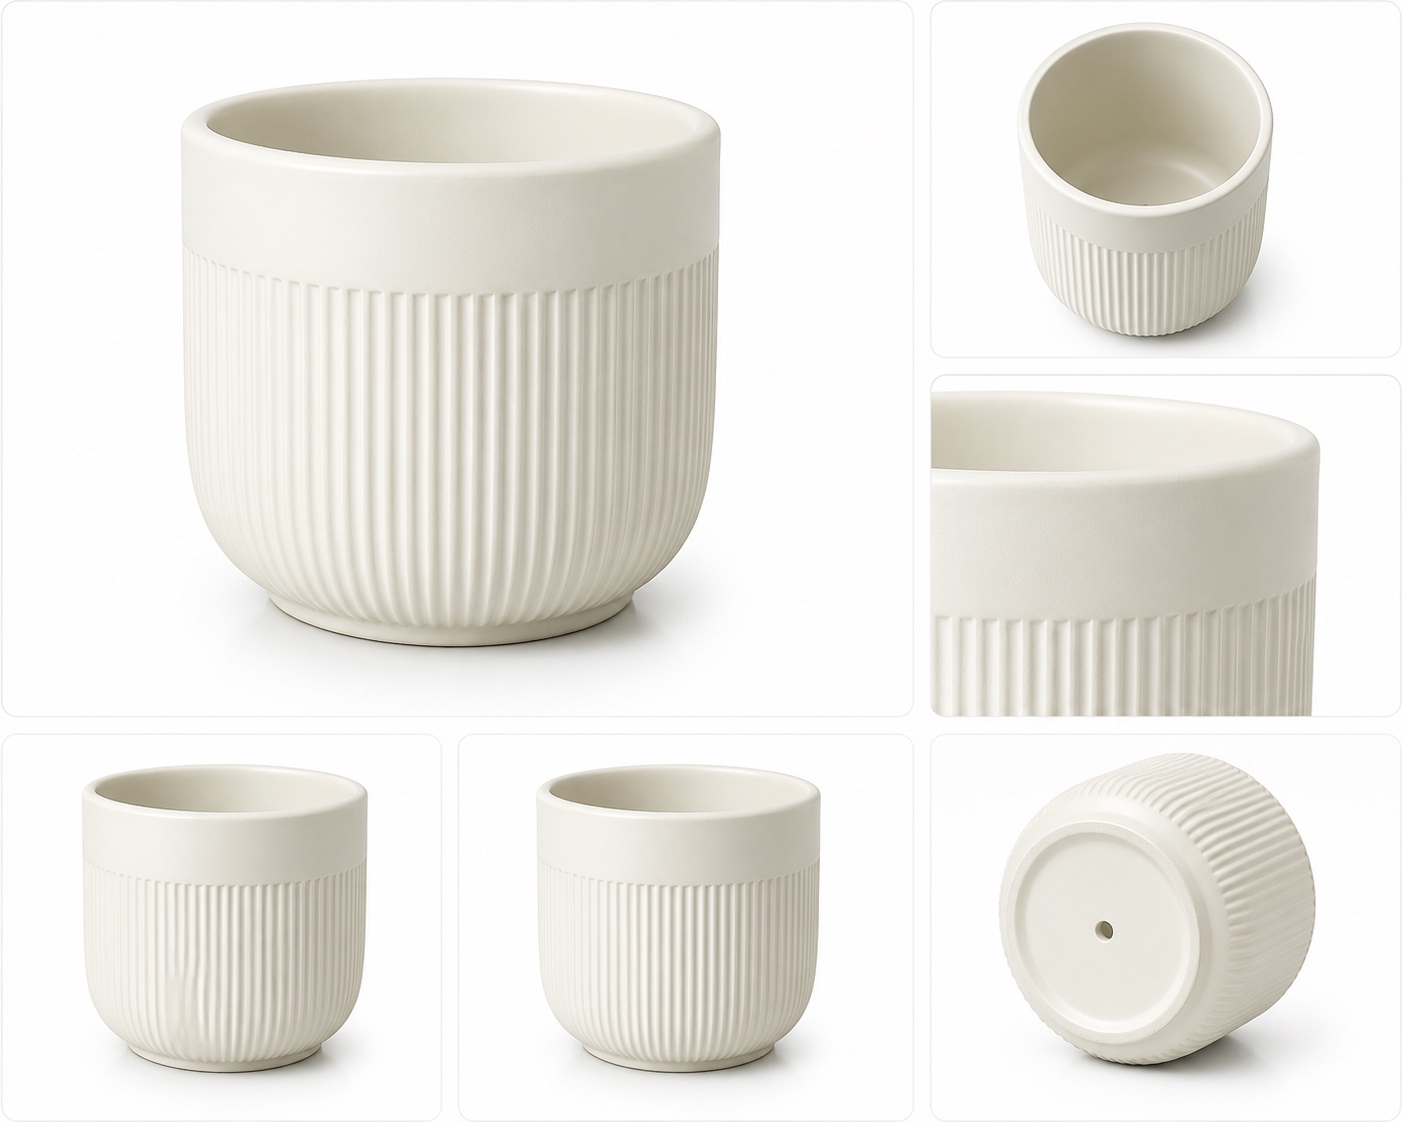
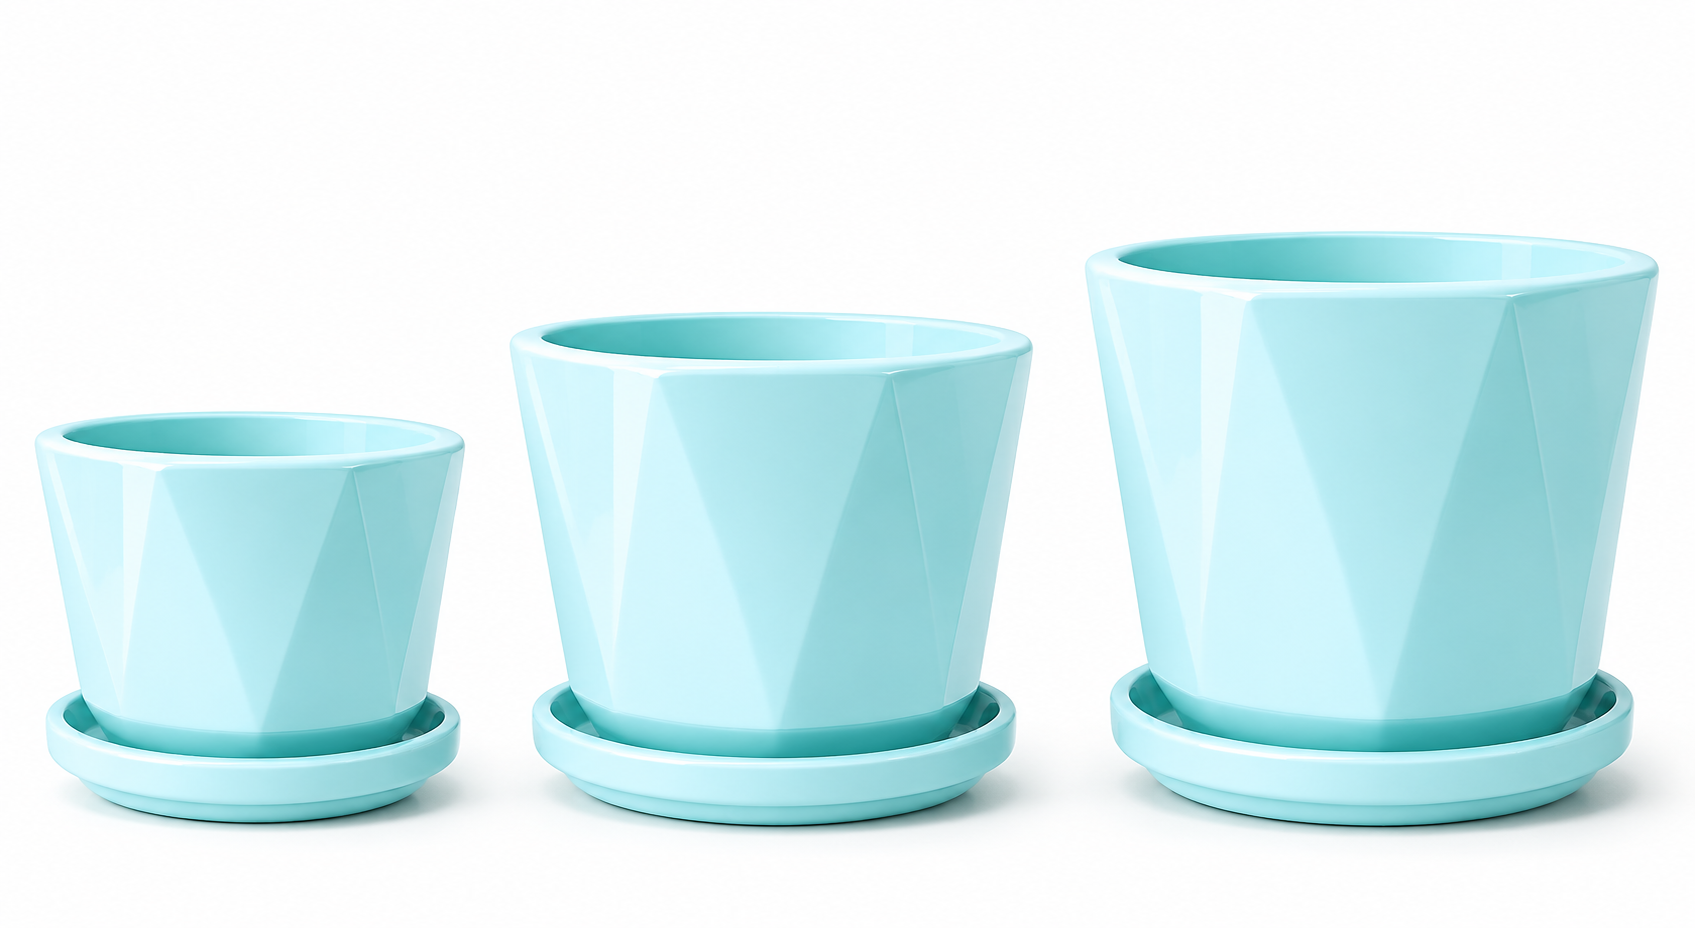
Added price for ceramic posts

diff --git a/app/pots/page.tsx b/app/pots/page.tsx
@@ -10,9 +10,31 @@ export default function PotsPage() {
   const [category, setCategory] = useState<string | null>(null);
   const [selected, setSelected] = useState<Pot | null>(null);
   const [search, setSearch] = useState("");
+  const [size, setSize] = useState<string | null>(null);
+
+  const availablePots = category
+    ? pots.filter((pot) => pot.category === category)
+    : pots;
+
+  const sizes = Array.from(
+    new Set(availablePots.flatMap((pot) => pot.variants.map((variant) => variant.size)))
+  );
+
+  const handleCategorySelect = (value: string | null) => {
+    setCategory(value);
+    const newAvailablePots = value
+      ? pots.filter((pot) => pot.category === value)
+      : pots;
+
+    if (size && !newAvailablePots.some((pot) => pot.variants.some((variant) => variant.size === size))) {
+      setSize(null);
+    }
+  };
 
   const filtered = pots.filter((p) => {
     if (category && p.category !== category) return false;
+    if (size && !p.variants.some((variant) => variant.size === size))
+      return false;
     if (search && !p.name.toLowerCase().includes(search.toLowerCase()))
       return false;
     return true;
@@ -30,13 +52,32 @@ export default function PotsPage() {
         </p>
       </div>
 
-      <div className="mt-8 flex flex-col gap-4 sm:flex-row sm:items-center sm:justify-between">
-        <CategoryFilter
-          categories={POT_CATEGORIES}
-          selected={category}
-          onSelect={setCategory}
-        />
-        <div className="relative">
+      <div className="mt-8 flex flex-col gap-4 sm:items-center sm:justify-between">
+        <div className="flex flex-col gap-4 sm:flex-row sm:items-center sm:gap-3">
+          <CategoryFilter
+            categories={POT_CATEGORIES}
+            selected={category}
+            onSelect={handleCategorySelect}
+          />
+          <label htmlFor="size-filter" className="sr-only">
+            Filter by size
+          </label>
+          <select
+            id="size-filter"
+            value={size ?? ""}
+            onChange={(e) => setSize(e.target.value || null)}
+            className="min-w-[180px] rounded-full border border-gray-200 bg-white py-2 px-4 text-sm text-brand-green focus:border-brand-green focus:outline-none focus:ring-1 focus:ring-brand-green"
+          >
+            <option value="">All sizes</option>
+            {sizes.map((sizeOption) => (
+              <option key={sizeOption} value={sizeOption}>
+                {sizeOption}
+              </option>
+            ))}
+          </select>
+        </div>
+
+        <div className="relative max-w-md">
           <svg
             className="absolute left-3 top-1/2 h-4 w-4 -translate-y-1/2 text-gray-400"
             fill="none"
@@ -55,7 +96,7 @@ export default function PotsPage() {
             placeholder="Search pots..."
             value={search}
             onChange={(e) => setSearch(e.target.value)}
-            className="w-full rounded-full border border-gray-200 bg-white py-2 pl-10 pr-4 text-sm text-gray-700 placeholder-gray-400 focus:border-brand-green focus:outline-none focus:ring-1 focus:ring-brand-green sm:w-64"
+            className="w-full rounded-full border border-gray-200 bg-white py-2 pl-10 pr-4 text-sm text-gray-700 placeholder-gray-400 focus:border-brand-green focus:outline-none focus:ring-1 focus:ring-brand-green"
           />
         </div>
       </div>

diff --git a/data/products.ts b/data/products.ts
@@ -332,23 +332,23 @@ export const pots: Pot[] = [
     { size: '10"', price: null },
   ] },
   // ── Ceramic Pots (PDF has codes and sizes only, no names or prices) ──
-  { id: "ll-cer001", code: "LL-CER001", name: "Ceramic Pot", category: "ceramic", image: "/images/pots/pot-021.jpg", variants: [{ size: '4"', price: null }] },
-  { id: "ll-cer002", code: "LL-CER002", name: "Ceramic Pot", category: "ceramic", image: "/images/pots/pot-022.jpg", variants: [{ size: '4"', price: null }, { size: '7"', price: null }] },
-  { id: "ll-cer003", code: "LL-CER003", name: "Ceramic Pot", category: "ceramic", image: "/images/pots/pot-023.jpg", variants: [{ size: '3"', price: null }] },
-  { id: "ll-cer004", code: "LL-CER004", name: "Ceramic Pot", category: "ceramic", image: "/images/pots/pot-024.jpg", variants: [{ size: '5"', price: null }] },
-  { id: "ll-cer005", code: "LL-CER005", name: "Ceramic Pot", category: "ceramic", image: "/images/pots/pot-025.jpg", variants: [{ size: '5"', price: null }] },
-  { id: "ll-cer006", code: "LL-CER006", name: "Ceramic Pot", category: "ceramic", image: "/images/pots/pot-026.jpg", variants: [{ size: '8"', price: null }] },
-  { id: "ll-cer007", code: "LL-CER007", name: "Ceramic Pot", category: "ceramic", image: "/images/pots/pot-027.jpg", variants: [{ size: '6"', price: null }, { size: '7"', price: null }, { size: '8"', price: null }] },
-  { id: "ll-cer008", code: "LL-CER008", name: "Ceramic Pot", category: "ceramic", image: "/images/pots/pot-028.jpg", variants: [{ size: '7"', price: null }, { size: '8"', price: null }] },
-  { id: "ll-cer009", code: "LL-CER009", name: "Ceramic Pot", category: "ceramic", image: "/images/pots/pot-029.jpg", variants: [{ size: '7"', price: null }] },
+  { id: "ll-cer001", code: "LL-CER001", name: "Ceramic Pot", category: "ceramic", image: "/images/pots/pot-021.jpg", variants: [{ size: '4"', price: 349 }] },
+  { id: "ll-cer002", code: "LL-CER002", name: "Ceramic Pot", category: "ceramic", image: "/images/pots/pot-022.jpg", variants: [{ size: '4"', price: 299 }, { size: '7"', price: 650 }] },
+  { id: "ll-cer003", code: "LL-CER003", name: "Ceramic Pot", category: "ceramic", image: "/images/pots/pot-023.jpg", variants: [{ size: '4"', price: 299 }, { size: '5"', price: 499 }, { size: '6"', price: 699 }] },
+  { id: "ll-cer004", code: "LL-CER004", name: "Ceramic Pot", category: "ceramic", image: "/images/pots/pot-024.jpg", variants: [{ size: '5"', price: 399 }] },
+  { id: "ll-cer005", code: "LL-CER005", name: "Ceramic Pot", category: "ceramic", image: "/images/pots/pot-025.jpg", variants: [{ size: '5"', price: 349 }] },
+  { id: "ll-cer006", code: "LL-CER006", name: "Ceramic Pot", category: "ceramic", image: "/images/pots/pot-026.jpg", variants: [{ size: '8"', price: 899 }] },
+  { id: "ll-cer007", code: "LL-CER007", name: "Ceramic Pot", category: "ceramic", image: "/images/pots/pot-027.jpg", variants: [{ size: '6"', price: 499 }, { size: '7"', price: 699 }, { size: '8"', price: 799 }] },
+  { id: "ll-cer008", code: "LL-CER008", name: "Ceramic Pot", category: "ceramic", image: "/images/pots/pot-028.jpg", variants: [{ size: '7"', price: 750 }, { size: '8"', price: 950 }] },
+  { id: "ll-cer009", code: "LL-CER009", name: "Ceramic Pot", category: "ceramic", image: "/images/pots/pot-029.jpg", variants: [{ size: '7"', price: 750 }] },
   { id: "ll-cer010", code: "LL-CER010", name: "Ceramic Pot", category: "ceramic", image: "/images/pots/pot-030.jpg", variants: [{ size: '7" x 4"', price: null }] },
-  { id: "ll-cer011", code: "LL-CER011", name: "Ceramic Pot", category: "ceramic", image: "/images/pots/pot-031.jpg", variants: [{ size: '5"', price: null }] },
-  { id: "ll-cer012", code: "LL-CER012", name: "Ceramic Pot", category: "ceramic", image: "/images/pots/pot-032.jpg", variants: [{ size: '8"', price: null }] },
-  { id: "ll-cer013", code: "LL-CER013", name: "Ceramic Pot", category: "ceramic", image: "/images/pots/pot-033.jpg", variants: [{ size: '3"', price: null }] },
-  { id: "ll-cer014", code: "LL-CER014", name: "Ceramic Pot", category: "ceramic", image: "/images/pots/pot-034.jpg", variants: [{ size: '3"', price: null }] },
-  { id: "ll-cer015", code: "LL-CER015", name: "Ceramic Pot", category: "ceramic", image: "/images/pots/pot-035.jpg", variants: [{ size: '4"', price: null }] },
-  { id: "ll-cer016", code: "LL-CER016", name: "Ceramic Pot", category: "ceramic", image: "/images/pots/pot-036.jpg", variants: [{ size: '5"', price: null }] },
-  { id: "ll-cer017", code: "LL-CER017", name: "Ceramic Pot", category: "ceramic", image: "/images/pots/pot-037.jpg", variants: [{ size: '4"', price: null }, { size: '5"', price: null }, { size: '6"', price: null }] },
+  { id: "ll-cer011", code: "LL-CER011", name: "Ceramic Pot", category: "ceramic", image: "/images/pots/pot-031.jpg", variants: [{ size: '5"', price: 499 }] },
+  { id: "ll-cer012", code: "LL-CER012", name: "Ceramic Pot", category: "ceramic", image: "/images/pots/pot-032.jpg", variants: [{ size: '8"', price: 950 }] },
+  { id: "ll-cer013", code: "LL-CER013", name: "Ceramic Pot", category: "ceramic", image: "/images/pots/pot-033.jpg", variants: [{ size: '3"', price: 149 }] },
+  { id: "ll-cer014", code: "LL-CER014", name: "Ceramic Pot", category: "ceramic", image: "/images/pots/pot-034.jpg", variants: [{ size: '3"', price: 99 }] },
+  { id: "ll-cer015", code: "LL-CER015", name: "Ceramic Pot", category: "ceramic", image: "/images/pots/pot-035.jpg", variants: [{ size: '5"', price: 249 }] },
+  { id: "ll-cer016", code: "LL-CER016", name: "Ceramic Pot", category: "ceramic", image: "/images/pots/pot-036.jpg", variants: [{ size: '5"', price: 499 }] },
+  { id: "ll-cer017", code: "LL-CER017", name: "Ceramic Pot", category: "ceramic", image: "/images/pots/pot-037.jpg", variants: [{ size: '4"', price: 299 }, { size: '5"', price: 499 }, { size: '6"', price: 699 }] },
   // ── Roto Moulded Pots (PDF has names and sizes only, no prices) ──
   { id: "ll-roto001", code: "LL-ROTO001", name: "Blo-Jas Lotus Pot", category: "roto-moulded", image: "/images/pots/pot-038.jpg", variants: [{ size: '30" x 12"', price: null }] },
   { id: "ll-roto002", code: "LL-ROTO002", name: "Tulsi Pot", category: "roto-moulded", image: "/images/pots/pot-039.jpg", variants: [{ size: '12" x 12"', price: null }, { size: '16" x 24"', price: null }] },